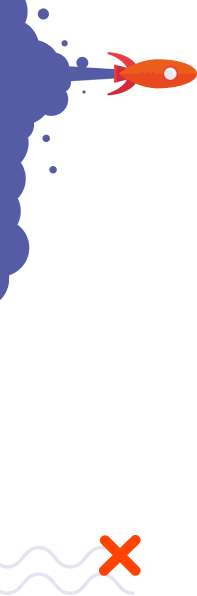
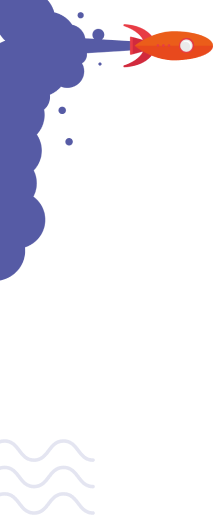
:sparkles: Pesquisa por tags

diff --git a/public/styles/main.css b/public/styles/main.css
@@ -76,6 +76,11 @@
   background: var(--button-color);
   padding: 1rem 1.5rem;
   height: 100%;
+  transition: background .3s;
+}
+
+.main__form button:hover, .main__form button:focus {
+  background: rgba(75, 79, 161, .6);
 }
 
 .main__form button img {
@@ -190,7 +195,7 @@
   font-size: 1.125rem;
 }
 
-.main__result--techs p, .profile__techs p, .main__form--tags p {
+.main__result--techs p, .profile__techs p, .main__form--tags a {
   display: inline-block;
   font-size: .75rem;
   font-weight: 700;
@@ -216,7 +221,7 @@
   justify-content: flex-end;
 }
 
-.main__result--link a, .profile__contact--slack, .profile__contact--teams, .profile__contact--edit {
+.main__result--link a, .profile__contact--teams, .profile__contact--edit {
   font-size: .75rem;
   font-weight: 700;
   color: var(--orange);
@@ -289,7 +294,6 @@
 .profile__techs {
   grid-area: tech;
   padding-bottom: 1rem;
-  border-bottom: 1px solid var(--card-border);
 }
 
 .profile__techs p {
@@ -332,28 +336,6 @@
 }
 
 @media screen and (min-width: 1280px){
-  .main::after {
-    background: url('/images/main-bg-r.png') no-repeat;
-    background-size: cover;
-    background-position: top;
-    max-width: 31rem;
-    height: 6rem;
-    top: 9.125rem;
-    right: 0;
-    position: absolute;
-  }
-
-  .main::before {
-    content: '';
-    background: url('/images/main-bg-l.png') no-repeat;
-    background-size: cover;
-    background-position: left;
-    width: 8.5rem;
-    height: 28.5rem;
-    bottom: 5rem;
-    left: 0;
-    position: absolute;
-  }
 
   .main__text--title {
     font-size: 2.875rem;
@@ -431,8 +413,9 @@
   .profile {
     grid-template-areas:
       "photo user"
-      "photo tech"
-      "photo contact";
+      "photo bio"
+      "contact contact"
+      "tech tech";
     padding: 2rem;
     margin: 7.3125rem 0 0;
     box-shadow: 1px 1px 10px rgba(213, 213, 213, 0.5);
@@ -445,17 +428,17 @@
   }
 
   .profile__image img {
-    width: 18.75rem;
+    width: 12.5rem;
     margin-right: 1.875rem;
   }
 
   .profile__user--name {
-    font-size: 1.625rem;
+    font-size: 1.125rem;
     line-height: 2.5rem;
   }
 
   .profile__user--job, .profile__user--pronouns {
-    font-size: 1.25rem;
+    font-size: 1rem;
     line-height: 1.5rem;
     margin-bottom: .5rem;
   }
@@ -474,7 +457,7 @@
   }
 
   .profile__techs h2, .profile__contact h2 {
-    font-size: 1.125rem;
+    font-size: 1rem;
     padding: 1rem 0;
   }
 
@@ -483,11 +466,16 @@
   }
 
   .profile__techs p {
+    font-size: .875rem;
+    padding: .5rem .625rem;
     margin-bottom: 1rem;
     margin-right: 1rem;
   }
 
-  .profile__contact--slack, .profile__contact--teams {
+  .profile__contact--teams {
+    font-size: 1rem;
+    padding: .75rem 1.5rem;
     margin-top: 0;
   }
 }
+  

diff --git a/public/styles/modal.css b/public/styles/modal.css
@@ -108,14 +108,14 @@
 @media screen and (min-width: 1280px) {
   .modal-wrapper .modal, .modal-wrapper .login__modal {
     border-radius: 1.875rem;
-    padding: 9rem 6rem;
+    padding: 6.5rem 6.5rem;
     width: 47.5rem;
   }
 
   .modal-wrapper .modal {
     background: var(--login-bg-color);
     background-image: url('/images/foguete.png');
-    background-size: 12.32rem 37.25rem;
+    background-size: 13.31rem 32.25rem;
     background-position: 0 0;
     background-repeat: no-repeat;
   }
@@ -138,9 +138,9 @@
   }
   
   .modal-wrapper .modal p {
-    font-size: 1.125rem;
+    font-size: 1rem;
     margin-bottom: 2rem;
-    line-height: 2rem;
+    line-height: 1.375rem;
     max-width: 26rem;
   }
 

diff --git a/public/scripts/get-users.js b/public/scripts/get-users.js
@@ -91,3 +91,14 @@ function getUsers() {
 document.querySelector("button").addEventListener("click", () => {
   getUsers();
 });
+
+let searchInput = document.querySelector("#search")
+let tags = document.querySelectorAll('.main__form--tags a')
+tags.forEach(tag => {
+  tag.addEventListener('click', event=>{
+    event.preventDefault()
+    searchInput.value = event.target.innerText.toLowerCase()
+    document.querySelector("button").click()
+  })
+})
+

diff --git a/public/styles/login.css b/public/styles/login.css
@@ -90,6 +90,11 @@ body {
   font-size: .875rem;
   font-weight: 700;
   color:var(--button-color);
+  transition: background .3s;
+}
+
+.login__button:hover, .login__button:focus {
+  background: rgba(75, 79, 161, .3);
 }
 
 .login__button img {
